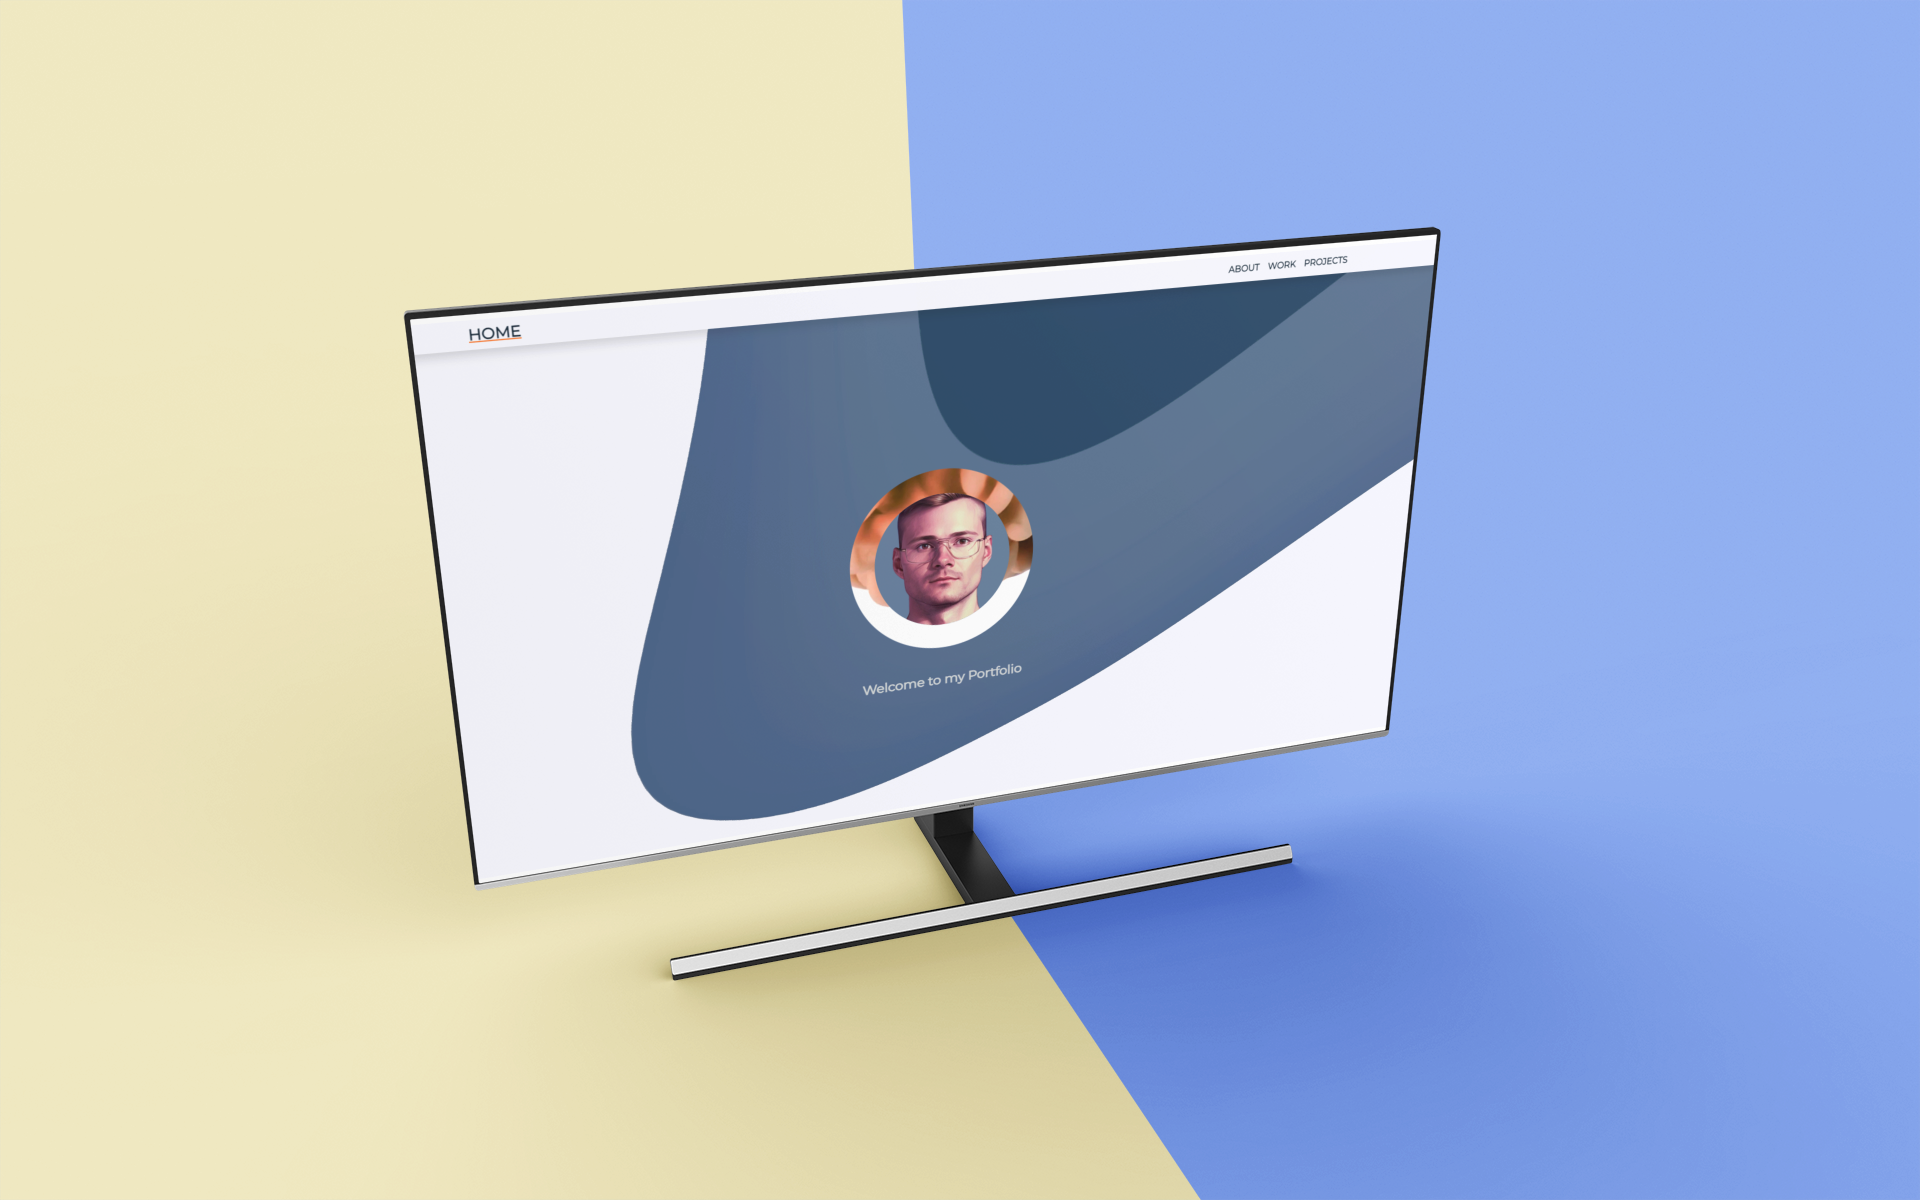
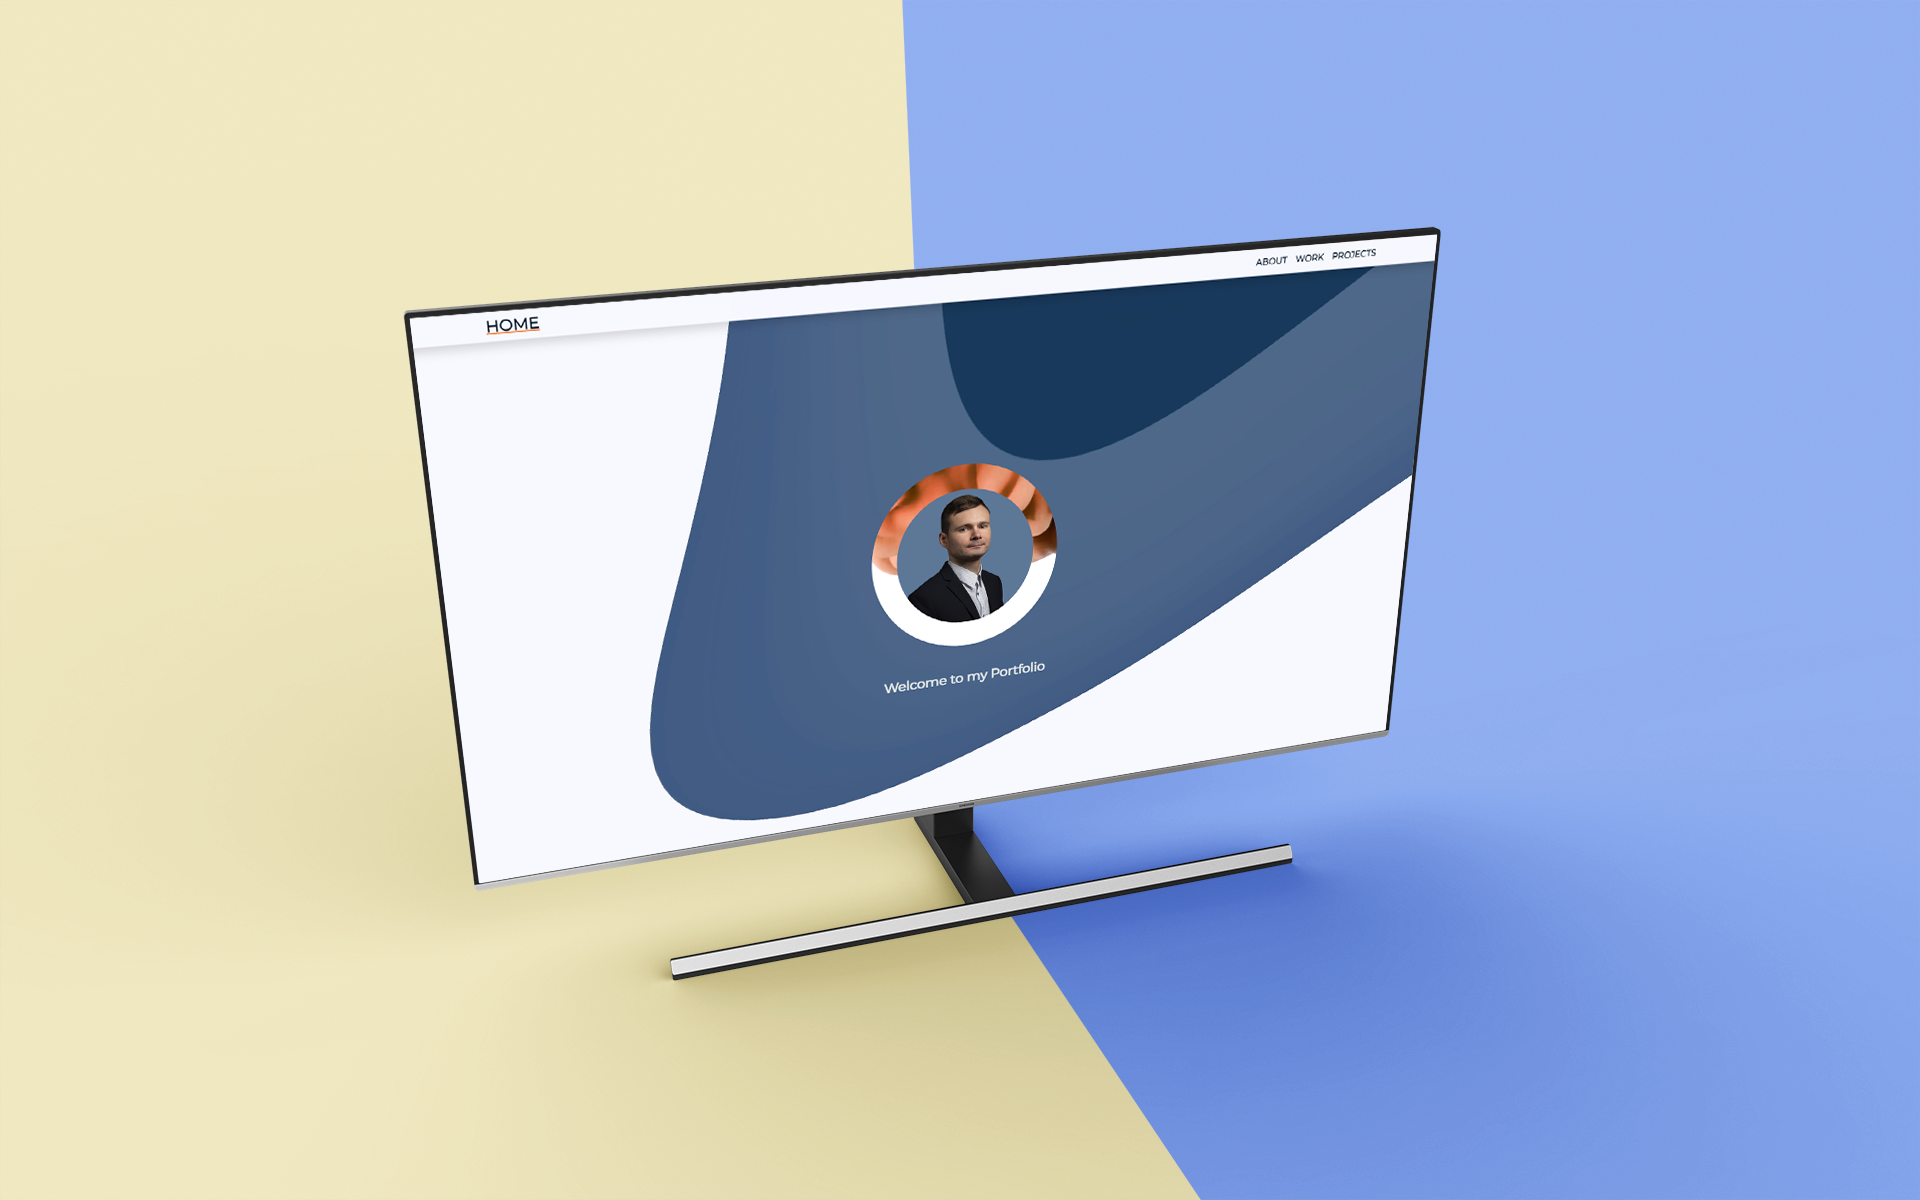
.

Changed region(s): [[0.3125, 0.185, 0.75, 0.6783], [0.4062, 0.6475, 0.4688, 0.6783], [0.25, 0.2467, 0.2812, 0.3083]]

diff --git a/index.html b/index.html
@@ -56,7 +56,7 @@
   <div id="Landingpage" class="headerbackground">
 
     <div class="headercenterdiv">
-      <img class="myimage" src="img/me.png" alt="">
+      <img class="myimage" src="img/ich.png" alt="">
     </div>
 
     <div class="headercenterdiv">
